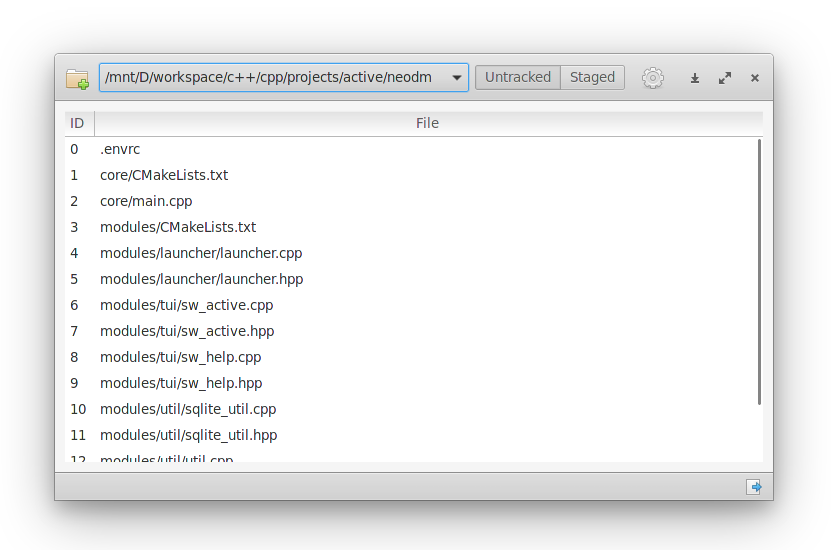
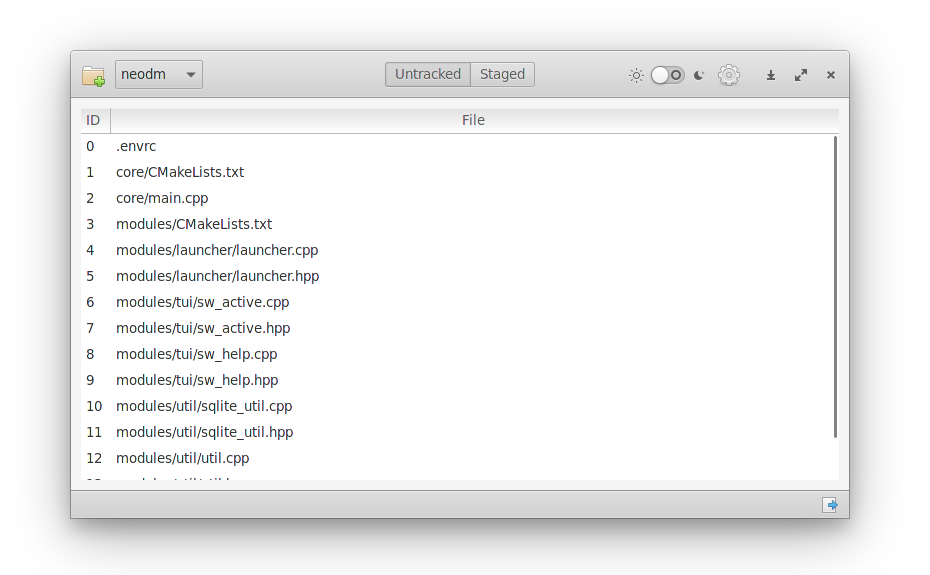
add granite library, Granite.ModeSwitch and Gtk.Popover widgets

Changed region(s): [[0.0602, 0.0927, 0.9627, 0.9582]]

diff --git a/README.md b/README.md
@@ -34,6 +34,7 @@ You can install giti by compiling from source, here's the list of dependencies r
  - `gtk+-3.0`
  - `libgit2-glib-1.0`
  - `gee-0.8`
+ - `granite`
 
 ## Building
 ```
